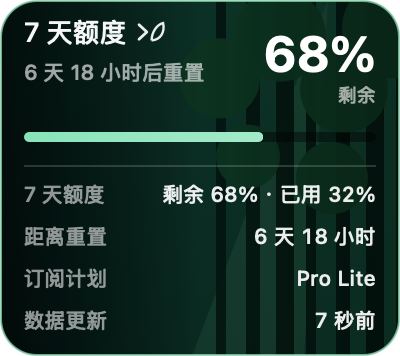
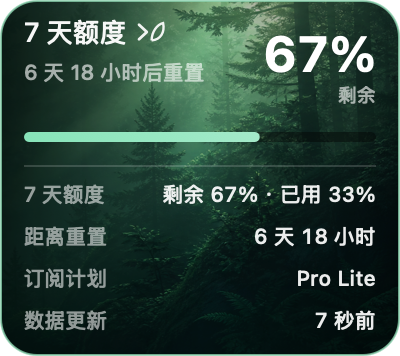
feat: bundle supplied quota theme backgrounds

diff --git a/Sources/QuotaGrove/LocalRateLimitSource.swift b/Sources/QuotaGrove/LocalRateLimitSource.swift
@@ -5,7 +5,8 @@ final class LocalRateLimitSource {
     private let fileManager: FileManager
     private var candidates: [URL] = []
     private var lastDiscovery = Date.distantPast
-    private let tailLimit = 2 * 1_024 * 1_024
+    private var candidateDirectoryModificationDate: Date?
+    private let tailLimit = 256 * 1_024
 
     init(
         root: URL = FileManager.default.homeDirectoryForCurrentUser
@@ -17,21 +18,34 @@ final class LocalRateLimitSource {
     }
 
     func latestSnapshot(now: Date = Date()) -> QuotaSnapshot? {
-        if candidates.isEmpty || now.timeIntervalSince(lastDiscovery) >= 60 {
+        if shouldRediscover(now: now) {
             candidates = discoverCandidates()
             lastDiscovery = now
+            candidateDirectoryModificationDate = currentCandidateDirectoryModificationDate()
         } else {
             candidates = sortByModificationDate(candidates)
         }
 
-        var newest: QuotaSnapshot?
         for url in candidates.prefix(32) {
-            guard let snapshot = snapshotFromTail(of: url) else { continue }
-            if newest == nil || snapshot.fetchedAt > newest!.fetchedAt {
-                newest = snapshot
-            }
+            if let snapshot = snapshotFromTail(of: url) { return snapshot }
         }
-        return newest
+        return nil
+    }
+
+    private func shouldRediscover(now: Date) -> Bool {
+        if candidates.isEmpty || now.timeIntervalSince(lastDiscovery) >= 300 { return true }
+        guard
+            let previous = candidateDirectoryModificationDate,
+            let current = currentCandidateDirectoryModificationDate()
+        else {
+            return false
+        }
+        return current > previous
+    }
+
+    private func currentCandidateDirectoryModificationDate() -> Date? {
+        guard let directory = candidates.first?.deletingLastPathComponent() else { return nil }
+        return try? directory.resourceValues(forKeys: [.contentModificationDateKey]).contentModificationDate
     }
 
     private func discoverCandidates() -> [URL] {

diff --git a/Sources/QuotaGrove/QuotaCardView.swift b/Sources/QuotaGrove/QuotaCardView.swift
@@ -173,12 +173,43 @@ final class QuotaCardView: NSView {
     }
 
     private func drawEnvironment(in rect: NSRect) {
+        if let image = ThemeBackgroundStore.shared.image(for: currentTheme) {
+            drawBackgroundImage(image, in: rect)
+            return
+        }
         switch currentTheme {
         case .forest: drawForest(in: rect)
         case .autumn: drawAutumn(in: rect)
         case .apocalypse: drawApocalypse(in: rect)
         case .wasteland: drawWasteland(in: rect)
         }
+    }
+
+    private func drawBackgroundImage(_ image: NSImage, in rect: NSRect) {
+        let sourceSize = image.size
+        guard sourceSize.width > 0, sourceSize.height > 0 else { return }
+        let targetAspect = rect.width / rect.height
+        let sourceAspect = sourceSize.width / sourceSize.height
+        var sourceRect = NSRect(origin: .zero, size: sourceSize)
+
+        if sourceAspect > targetAspect {
+            sourceRect.size.width = sourceSize.height * targetAspect
+            sourceRect.origin.x = isExpanded
+                ? max(0, sourceSize.width - sourceRect.width)
+                : (sourceSize.width - sourceRect.width) / 2
+        } else if sourceAspect < targetAspect {
+            sourceRect.size.height = sourceSize.width / targetAspect
+            sourceRect.origin.y = (sourceSize.height - sourceRect.height) / 2
+        }
+
+        image.draw(
+            in: rect,
+            from: sourceRect,
+            operation: .sourceOver,
+            fraction: 1,
+            respectFlipped: false,
+            hints: [.interpolation: NSImageInterpolation.high]
+        )
     }
 
     private func drawForest(in rect: NSRect) {

diff --git a/Sources/QuotaGrove/ThemeBackgroundStore.swift b/Sources/QuotaGrove/ThemeBackgroundStore.swift
@@ -1,0 +1,36 @@
+import AppKit
+
+final class ThemeBackgroundStore {
+    static let shared = ThemeBackgroundStore()
+
+    private var cache: [QuotaTheme: NSImage] = [:]
+
+    func image(for theme: QuotaTheme) -> NSImage? {
+        if let cached = cache[theme] { return cached }
+        guard let url = assetURL(for: theme), let image = NSImage(contentsOf: url) else { return nil }
+        cache[theme] = image
+        return image
+    }
+
+    private func assetURL(for theme: QuotaTheme) -> URL? {
+        let filename: String
+        switch theme {
+        case .forest: filename = "背景百分之50以上.png"
+        case .autumn: filename = "背景百分之50以下.png"
+        case .apocalypse: filename = "背景百分之20以下.png"
+        case .wasteland: filename = "背景百分之3以下.png"
+        }
+
+        if let resourceURL = Bundle.main.resourceURL?
+            .appendingPathComponent("Backgrounds", isDirectory: true)
+            .appendingPathComponent(filename),
+           FileManager.default.fileExists(atPath: resourceURL.path) {
+            return resourceURL
+        }
+
+        let developmentURL = URL(fileURLWithPath: FileManager.default.currentDirectoryPath)
+            .appendingPathComponent("bg", isDirectory: true)
+            .appendingPathComponent(filename)
+        return FileManager.default.fileExists(atPath: developmentURL.path) ? developmentURL : nil
+    }
+}

diff --git a/Sources/QuotaGrove/AppDelegate.swift b/Sources/QuotaGrove/AppDelegate.swift
@@ -66,7 +66,7 @@ final class AppDelegate: NSObject, NSApplicationDelegate {
         refreshInProgress = true
         sourceQueue.async { [weak self] in
             guard let self else { return }
-            let snapshot = self.source.latestSnapshot()
+            let snapshot = autoreleasepool { self.source.latestSnapshot() }
             DispatchQueue.main.async {
                 self.refreshInProgress = false
                 if let snapshot {

diff --git a/test-report.md b/test-report.md
@@ -1,0 +1,97 @@
+# Quota Grove V1 验收报告
+
+日期：2026-08-27
+
+## 结论
+
+V1 已完成原生应用构建、真实额度读取、核心窗口交互、四主题边界、安装包、隐私静态检查和短时性能验收。最终应用已安装到 `~/Applications/Quota Grove.app` 并在本机运行。
+
+## 构建与安装
+
+| 项目 | 结果 |
+|---|---|
+| Swift Debug 构建 | 通过 |
+| Swift Release 构建 | 通过 |
+| 应用 Info.plist | `plutil` 通过 |
+| ad-hoc 签名 | `codesign --verify --deep --strict` 通过 |
+| 目标架构 | arm64 |
+| 最低系统 | macOS 13 |
+| 应用包体积 | 7.7 MB（含四张正式背景） |
+| `LSUIElement` | true，不显示 Dock 图标 |
+| 安装脚本 | 通过，已安装并启动 |
+| 卸载脚本 | `zsh -n` 语法通过；未在本轮执行，以保留交付应用 |
+
+## 真实数据
+
+安装版执行 `--snapshot-json` 成功。最终验证快照：
+
+```json
+{
+  "windowMinutes": 10080,
+  "remainingPercent": 66,
+  "usedPercent": 34,
+  "resetsAt": "2026-09-03T03:10:12Z",
+  "source": "codex-local-event",
+  "planType": "prolite"
+}
+```
+
+百分比在任务进行期间会继续变化，因此此处只记录验收时刻，不作为固定演示数据。
+
+## 自动边界与解析测试
+
+安装版执行 `--self-test`：`PASS 19 项`。
+
+- 主题边界：50、49、20、19、3、2、1、0 全部通过。
+- 秋天、末日、废土进度条均与森林绿不同。
+- 10080 分钟窗口优先选择通过。
+- `remaining = 100 - used` 计算通过。
+- Unix 重置时间和套餐字段解析通过。
+- 无关事件忽略通过。
+- 大于 100 的异常百分比拒绝通过。
+- 缺少 7 天窗口时显示最长实际窗口通过。
+
+当前 Command Line Tools 环境不包含 XCTest/Swift Testing 运行库，因此使用应用内置的零依赖自测入口；测试随 Release 二进制一起交付，可在目标 Mac 复验。
+
+## 视觉与交互
+
+| 验收项 | 结果 |
+|---|---|
+| 收起渲染 | 200×80 pt；Retina 输出 400×160 px |
+| 展开渲染 | 200×178 pt；Retina 输出 400×356 px |
+| 四套正式背景 | 森林、秋天、末日、废土均已按 2.5:1 等比填充 |
+| 缺图回退 | 四套程序化回退场景已保留 |
+| 单击展开/收起 | 真实桌面 UI 通过 |
+| 双击刷新不切换高度 | 真实桌面 UI 通过 |
+| 右键菜单 | 刷新、登录启动、位置重置、隐私、退出均可见 |
+| 可访问性 | 暴露标题、剩余百分比、状态、单/双击提示和拖动帮助 |
+| 贴边收纳 | 代码路径完成；本轮 UI 自动化未能稳定合成原生窗口拖动，待人工拖到物理屏幕边缘复验 |
+| 多显示器 | 位置约束和屏幕变化处理已实现；本轮无第二台显示器做断连实测 |
+
+## 性能
+
+最终安装版在正式森林图片已解码、20 秒额度刷新开启的状态下，使用 `top` 连续采样 11 次、间隔 2 秒：
+
+- 平均 CPU：0.53%。
+- 内存：15–16 MB。
+- 线程：常态约 11–18。
+
+达到 PRD 的空闲平均 CPU 低于 1%、常驻内存低于 80 MB 目标。
+
+额度扫描已优化为：每次最多读取候选文件尾部 256 KiB，按修改时间找到第一个可信事件即停止，新会话通过目录变更触发重新发现。
+
+## 隐私静态检查
+
+- `Sources` 中未发现 `URLSession`、`NWConnection`、网络框架调用、遥测或分析 SDK。
+- 未发现 `auth.json` 或 `.codex/auth` 读取代码。
+- 链接库仅包含 Apple 系统框架与 Swift 系统运行库。
+- 应用包中只包含可执行文件、Info.plist、产品图标和四张背景。
+
+## 发布前仍需的长周期/硬件验收
+
+以下项目不能用一次短时开发验收替代，发布公测前应补做：
+
+- 连续运行 8 小时的崩溃与内存增长观察。
+- 真实多显示器连接、断开、排列变化。
+- 人工拖动到左右物理边缘、悬停滑出和离开延迟收纳。
+- 在一台没有 Swift 开发环境的干净 Mac 上验证安装、登录启动和卸载。

diff --git a/architecture.md b/architecture.md
@@ -26,7 +26,7 @@ NSApplication (.accessory)
 
 - 每次只读取候选 JSONL 文件末尾最多 2 MiB，不加载完整历史。
 - 会话目录最多保留 32 个最新候选；已命中的文件优先复用，周期性重新发现新会话。
-- 背景由少量 Core Graphics 路径绘制，不加载或重复解码位图。
+- 正式背景按当前主题懒加载并缓存，不在每次刷新时重复解码；缺图时由少量 Core Graphics 路径即时绘制回退场景。
 - UI 和文件读取分离；扫描在后台串行队列执行，主线程只更新视图。
 
 ## 窗口状态
@@ -47,7 +47,7 @@ collapsed ⇄ expanded
 
 - 调色板：林夜 `#0C251D`、苔光 `#78E0AA`、秋褐 `#3B2115`、枫金 `#F4B84A`、灾变红 `#F05252`、废土灰 `#8A8580`。
 - 字体：中文信息全部使用 macOS 系统字体；数字启用等宽数字特征。
-- 签名元素：环境地貌与额度进度共享同一条底部“生命线”，额度下降时场景从有机树冠退化为断裂地平线。
+- 签名元素：环境地貌与额度进度共享同一条底部“生命线”，额度下降时场景从绿色森林退化为红黑树林与灰白废墟。
 - 克制原则：只有背景场景承担情绪，结构、字色和间距保持一致。
 
 ## 安全与失败

diff --git a/asset-sources.md b/asset-sources.md
@@ -9,10 +9,11 @@
 
 ## 卡片主题
 
-- 来源：`QuotaCardView.swift` 中的 Core Graphics/AppKit 原生路径和渐变。
-- 森林：树干、树冠与光束的程序化构图。
-- 秋天：金棕渐变、树干与暖色叶冠。
-- 末日：暗红天空和破碎地平线。
-- 废土：灰白天空、建筑残片和枯枝。
+- 正式背景：产品负责人提供的 `bg/*.png`，源尺寸均为 1983 × 793 px，与收起卡片保持约 2.5:1 比例。依据 PRD，这些素材由产品负责人确认拥有使用和分发权利。
+- 森林：`bg/背景百分之50以上.png`
+- 秋天：`bg/背景百分之50以下.png`
+- 末日：`bg/背景百分之20以下.png`
+- 废土：`bg/背景百分之3以下.png`
+- 回退背景：`QuotaCardView.swift` 中独立绘制的 Core Graphics/AppKit 路径和渐变，仅在正式图片缺失时使用。
 
-没有使用外部图片、生成式图片、素材库或第三方品牌图标。
+没有使用第三方品牌图标。

diff --git a/THIRD_PARTY_NOTICES.md b/THIRD_PARTY_NOTICES.md
@@ -2,8 +2,8 @@
 
 Quota Grove 的运行时仅使用 Apple 系统框架：AppKit、Foundation、Core Animation。
 
-产品图标、四套主题背景和全部应用代码为本项目独立创建；没有复制同类项目的代码、文件结构、脚本、README、图标或素材。
+产品图标和全部应用代码为本项目独立创建；四套主题背景由产品负责人提供，并依据 PRD 确认拥有使用和分发权利。项目没有复制同类项目的代码、文件结构、脚本、README、图标或素材。
 
-本项目不捆绑第三方库、字体、图标包、图片、遥测 SDK 或网络服务。
+本项目不捆绑第三方库、字体、图标包、遥测 SDK 或网络服务。
 
 “OpenAI”“Codex”“ChatGPT”是其各自权利人的名称或商标。本工具为非官方独立工具，与 OpenAI 无隶属或背书关系。

diff --git a/requirements-review.md b/requirements-review.md
@@ -15,7 +15,7 @@
 - 百分比：`remaining = 100 - used_percent`，异常值拒绝，不进入界面。
 - 刷新：20 秒轮询；双击立即重新扫描。没有公开刷新接口，因此双击不向 OpenAI 发请求。
 - Codex 状态：通过 macOS 运行应用列表判断 ChatGPT/Codex 客户端是否在运行；未运行时隐藏。
-- 主题：背景由 Core Graphics 原生绘制，四套视觉不含第三方素材。
+- 主题：正式背景使用产品负责人提供的四张 2.5:1 图片；Core Graphics 原生场景作为缺图回退。
 - 自动启动：使用用户级 LaunchAgent，不要求管理员权限。
 - 发布：安装到 `~/Applications/Quota Grove.app`，默认不自动启用登录启动。
 
